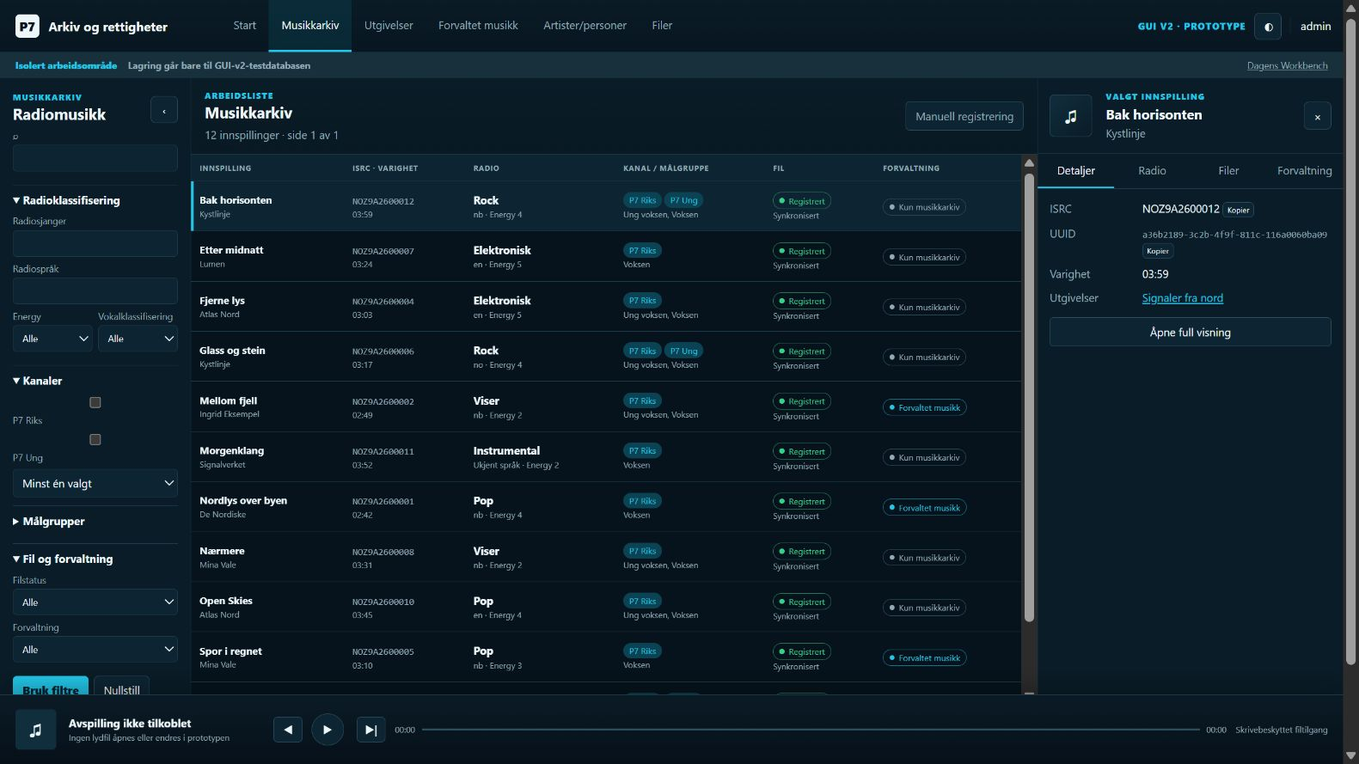
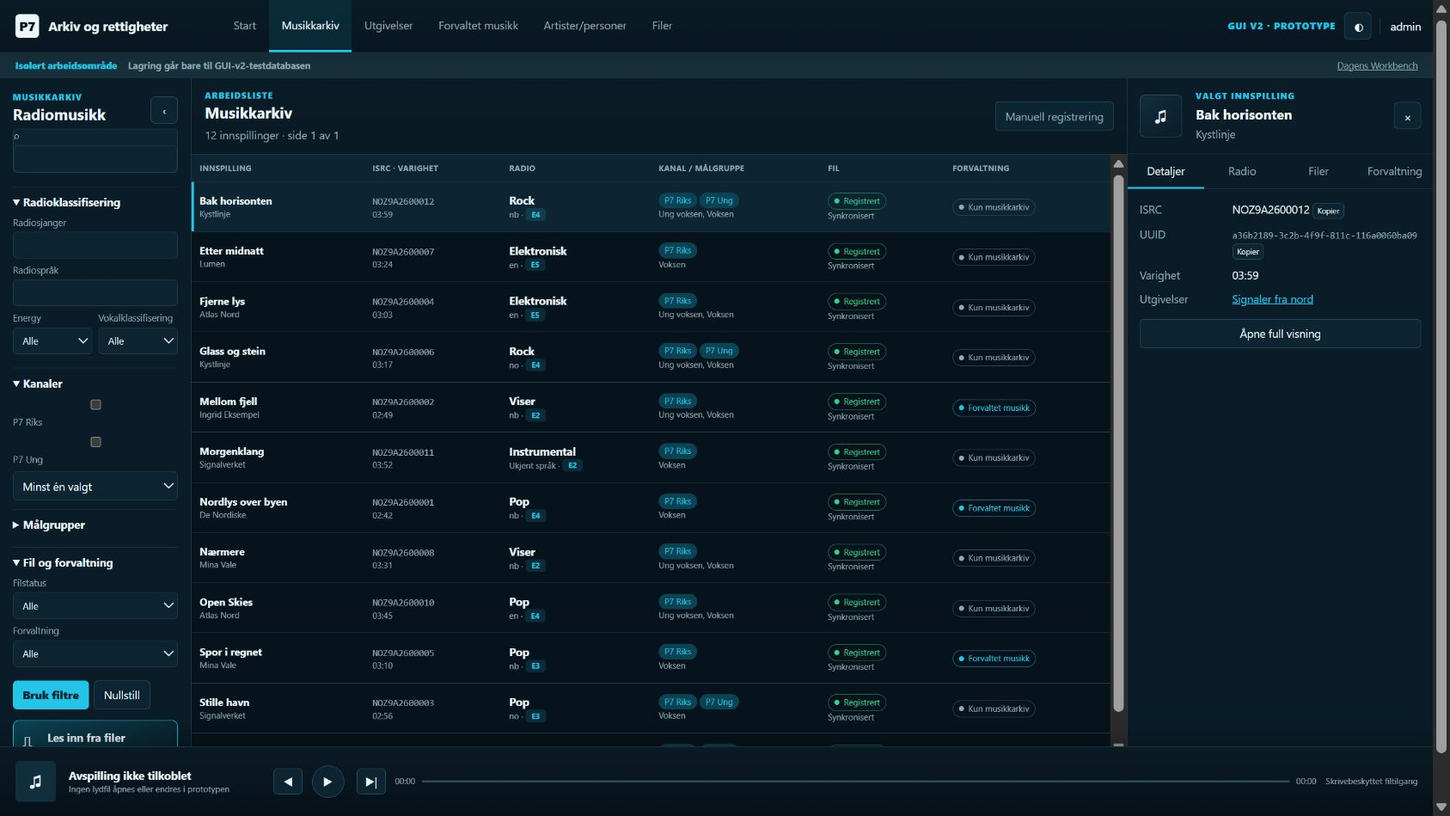
Refine GUI v2 catalogue workflows

diff --git a/gui_v2/templates/gui_v2/release_tracks.html b/gui_v2/templates/gui_v2/release_tracks.html
@@ -1,12 +1,12 @@
 {% extends "gui_v2/base.html" %}{% block title %}{{ release.title }}{% endblock %}{% block content %}
 <div class="release-layout">
   <aside class="release-nav"><a href="{% url 'gui_v2:release_list' %}">← Alle utgivelser</a><div class="release-cover">▣</div><h2>{{ release.title }}</h2><p>{{ release.label|default:"Label ukjent" }}</p><dl><dt>Format</dt><dd>{{ release.get_release_type_display|default:"Ukjent" }}</dd><dt>År</dt><dd>{{ release.release_year|default:"Ukjent" }}</dd><dt>Katalognr.</dt><dd>{{ release.catalogue_number|default:"Ikke registrert" }}</dd><dt>UUID</dt><dd><code>{{ release.pk }}</code></dd></dl><nav><a aria-current="page" href="#tracks">Sporliste</a><a href="{% url 'workbench:release' release.pk %}">Utgivelsesdetaljer</a><a href="{% url 'workbench:release' release.pk %}?tab=files">Filer og kilder</a></nav></aside>
-  <section class="track-workspace" id="tracks"><header class="release-header"><div><span class="eyebrow">Utgivelse · sporregistrering</span><h1>{{ release.title }}</h1><p>Utgivelsesspesifikke felt redigeres i tabellen. Felles metadata endres bare med et uttrykkelig valg.</p></div><span class="status {% if writes_enabled %}ok{% else %}muted{% endif %}">{% if writes_enabled %}Isolert lagring aktiv{% else %}Skrivebeskyttet prototype{% endif %}</span></header>
+  <section class="track-workspace" id="tracks"><header class="release-header"><div><span class="eyebrow">Utgivelse · sporregistrering</span><h1>{{ release.title }}</h1><p>Utgivelsesspesifikke felt redigeres i tabellen. Felles metadata endres bare med et uttrykkelig valg.</p></div><div class="heading-actions"><button class="button" type="button" data-open-inspector hidden>Vis sporinspektør</button><span class="status {% if writes_enabled %}ok{% else %}muted{% endif %}">{% if writes_enabled %}Isolert lagring aktiv{% else %}Skrivebeskyttet prototype{% endif %}</span></div></header>
   <form method="post" id="track-grid-form" data-writes="{{ writes_enabled|yesno:'true,false' }}">{% csrf_token %}<input type="hidden" name="return_query" value="{{ return_query }}">{{ formset.management_form }}
     {% if formset.non_form_errors %}<div class="form-errors" role="alert">{{ formset.non_form_errors }}</div>{% endif %}
-    <div class="track-toolbar"><button type="button" class="button" data-add-row>＋ Ny rad</button><button type="button" class="button" data-add-five>＋ Fem rader</button><button type="button" class="button" data-open-paste>Lim inn tabelltekst</button><span id="dirty-count">Ingen ulagrede endringer</span><button type="button" class="button" data-cancel-grid>Avbryt</button><button class="primary" type="submit" {% if not writes_enabled %}disabled{% endif %}>Lagre sporlisten</button></div>
+    <div class="track-toolbar"><button type="button" class="button" data-add-row>＋ Ny rad</button><button type="button" class="button" data-add-five>＋ Fem rader</button><button type="button" class="button" data-open-paste>Lim inn tabelltekst</button><span class="keyboard-hint" id="track-shortcuts"><kbd>Tab</kbd> felt · <kbd>Enter</kbd>/<kbd>Shift+Enter</kbd> neste/forrige rad · <kbd>Ctrl+piler</kbd> felt/rad · <kbd>Ctrl+Shift+N</kbd> ny rad · <kbd>Ctrl+Enter</kbd> lagre</span><span id="dirty-count">Ingen ulagrede endringer</span><button type="button" class="button" data-cancel-grid>Avbryt</button><button class="primary" type="submit" {% if not writes_enabled %}disabled{% endif %}>Lagre sporlisten</button></div>
     <div class="paste-panel" hidden><label>Lim inn tabulatorseparerte kolonner: plate, side, spor, sportittel, artist, komponist, tekstforfatter, varighet, ISRC<textarea rows="6" data-paste-area></textarea></label><button type="button" class="primary" data-apply-paste>Legg til rader</button><button type="button" class="button" data-close-paste>Lukk</button></div>
-    <div class="track-table-wrap"><table class="track-table"><thead><tr><th>#</th><th>Plate</th><th>Side</th><th>Spor</th><th>Sportittel</th><th>Innspilling</th><th>Artist</th><th>Komponist</th><th>Tekstforfatter</th><th>Varighet</th><th>ISRC</th><th>Status</th></tr></thead><tbody id="track-rows">
+    <div class="track-table-wrap"><table class="track-table" aria-describedby="track-shortcuts"><thead><tr><th>#</th><th>Plate</th><th>Side</th><th>Spor</th><th>Sportittel</th><th>Innspilling</th><th>Artist</th><th>Komponist</th><th>Tekstforfatter</th><th>Varighet</th><th>ISRC</th><th>Status</th></tr></thead><tbody id="track-rows">
     {% for form in formset %}<tr class="track-row{% if form.errors %} invalid{% endif %}" data-index="{{ forloop.counter0 }}">{{ form.track_id }}{{ form.recording_id }}
       <td>{{ form.sequence_number }}{% for error in form.sequence_number.errors %}<small class="cell-error">{{ error }}</small>{% endfor %}</td><td>{{ form.disc_number }}</td><td>{{ form.side }}</td><td>{{ form.track_number }}</td><td>{{ form.title_override }}</td><td><div class="recording-cell">{{ form.recording_title }}<button type="button" class="mini" data-search-recording>Finn</button><div class="search-results" hidden></div></div>{% for error in form.recording_title.errors %}<small class="cell-error">{{ error }}</small>{% endfor %}{% if form.duplicate_candidates %}<div class="candidate-list"><strong>Mulige dubletter</strong>{% for match in form.duplicate_candidates %}<button type="button" data-use-recording="{{ match.recording.pk }}" data-title="{{ match.recording.title }}">Bruk {{ match.recording.title }} · {{ match.signals|join:", " }}</button>{% endfor %}{{ form.force_create }} {{ form.force_create.label_tag }}</div>{% endif %}</td>
       <td>{{ form.artists }}</td><td>{{ form.composers }}</td><td>{{ form.lyricists }}</td><td>{{ form.duration }}{% for error in form.duration.errors %}<small class="cell-error">{{ error }}</small>{% endfor %}</td><td>{{ form.isrc }}{% for error in form.isrc.errors %}<small class="cell-error">{{ error }}</small>{% endfor %}</td><td><label class="compact-check">{{ form.update_shared_recording }} Oppdater felles</label><label class="compact-check danger">{{ form.remove }} Fjern</label>{% if form.errors %}<span class="status error">Må rettes</span>{% else %}<span class="status muted row-state">Lagret</span>{% endif %}</td>
@@ -14,5 +14,5 @@
   </form>
   <template id="empty-track-row"><tr class="track-row new" data-index="__prefix__">{{ formset.empty_form.track_id }}{{ formset.empty_form.recording_id }}<td>{{ formset.empty_form.sequence_number }}</td><td>{{ formset.empty_form.disc_number }}</td><td>{{ formset.empty_form.side }}</td><td>{{ formset.empty_form.track_number }}</td><td>{{ formset.empty_form.title_override }}</td><td><div class="recording-cell">{{ formset.empty_form.recording_title }}<button type="button" class="mini" data-search-recording>Finn</button><div class="search-results" hidden></div></div><label class="compact-check">{{ formset.empty_form.force_create }} Opprett ny likevel</label></td><td>{{ formset.empty_form.artists }}</td><td>{{ formset.empty_form.composers }}</td><td>{{ formset.empty_form.lyricists }}</td><td>{{ formset.empty_form.duration }}</td><td>{{ formset.empty_form.isrc }}</td><td><label class="compact-check">{{ formset.empty_form.update_shared_recording }} Oppdater felles</label><label class="compact-check danger">{{ formset.empty_form.remove }} Fjern</label><span class="status cyan row-state">Ny</span></td></tr></template>
   </section>
-  <aside class="inspector release-inspector" id="v2-inspector"><button class="resize-handle" type="button" aria-label="Endre bredden på detaljpanelet"></button><header><div><span class="eyebrow">Sporinspektør</span><h2>{% if selected_track %}{{ selected_track.display_title }}{% else %}Velg et spor{% endif %}</h2><p>{% if selected_track %}Innspilling {{ selected_track.recording.pk }}{% endif %}</p></div><button type="button" class="icon-button" data-close-inspector>×</button></header>{% if selected_track %}<dl class="detail-grid"><dt>Felles tittel</dt><dd>{{ selected_track.recording.title }}</dd><dt>Release-spor</dt><dd>{{ selected_track.side }}{{ selected_track.track_number|default:selected_track.sequence_number }}</dd><dt>Brukt på</dt><dd>{{ selected_track.recording.release_tracks.count }} utgivelse(r)</dd><dt>Filer</dt><dd>{{ selected_track.file_assets.count }} knyttet til dette sporet</dd></dl><p class="notice">Endring av felles metadata kan påvirke flere utgivelser. Velg «Oppdater felles» på raden for å gjøre dette uttrykkelig.</p><a class="button full" href="{% url 'workbench:recording' selected_track.recording.pk %}">Åpne innspillingen</a>{% endif %}</aside>
+  <aside class="inspector release-inspector" id="v2-inspector"><button class="resize-handle" type="button" aria-label="Endre bredden på detaljpanelet" title="Dra eller bruk piltastene"></button><header><div><span class="eyebrow">Valgt spor</span><h2 id="inspector-track-title">{% if selected_track %}{{ selected_track.display_title }}{% else %}Velg et spor{% endif %}</h2><p id="inspector-recording-id">Felles innspilling</p></div><button type="button" class="icon-button" data-close-inspector aria-label="Lukk sporinspektøren">×</button></header>{% if selected_track %}<dl class="detail-grid"><dt>Innspilling</dt><dd id="inspector-common-title">{{ selected_track.recording.title }}</dd><dt>Posisjon</dt><dd id="inspector-position">{{ selected_track.side }}{{ selected_track.track_number|default:selected_track.sequence_number }}</dd><dt>Artist</dt><dd id="inspector-artist">{{ selected_track_data.artists|default:"Uavklart" }}</dd><dt>ISRC</dt><dd id="inspector-isrc">{{ selected_track_data.isrc|default:"Ikke registrert" }}</dd><dt>Andre utgivelser</dt><dd>{{ selected_track.recording.release_tracks.count }} registrering(er)</dd><dt>Tilknyttede filer</dt><dd>{{ selected_track.file_assets.count }}</dd></dl><p class="notice">Felles metadata kan brukes på flere utgivelser. Kryss av «Oppdater felles» før slike endringer lagres.</p><a class="button full" href="{% url 'workbench:recording' selected_track.recording.pk %}">Åpne full innspilling</a>{% endif %}</aside>
 </div>{% endblock %}

diff --git a/gui_v2/static/gui_v2/prototype.css b/gui_v2/static/gui_v2/prototype.css
@@ -10,3 +10,12 @@
 .release-layout{display:grid;grid-template-columns:210px minmax(800px,1fr) var(--inspector);min-height:calc(100vh - var(--head) - var(--strip) - var(--player))}.release-nav{padding:16px}.release-nav>a{color:var(--accent)}.release-cover{display:grid;place-items:center;width:112px;height:112px;margin:20px auto 12px;border:1px solid var(--line2);border-radius:7px;background:linear-gradient(145deg,var(--surface3),var(--bg));font-size:36px}.release-nav dl{display:grid;grid-template-columns:70px 1fr;gap:6px;margin:16px 0}.release-nav dt{color:var(--muted)}.release-nav dd{margin:0}.release-nav nav{display:grid;border-top:1px solid var(--line);padding-top:10px}.release-nav nav a{padding:7px;text-decoration:none;color:var(--muted)}.release-nav nav a[aria-current=page]{background:var(--accent-soft);color:var(--accent);border-left:2px solid var(--accent)}.track-toolbar{display:flex;align-items:center;gap:6px;padding:8px 10px;border-bottom:1px solid var(--line);background:var(--surface)}.track-toolbar #dirty-count{margin-left:auto;color:var(--muted)}.paste-panel{padding:10px;border-bottom:1px solid var(--line);background:var(--surface2)}.paste-panel label{display:grid;gap:5px;color:var(--muted)}.paste-panel textarea{width:100%;background:var(--bg);color:var(--text);border:1px solid var(--line2);border-radius:5px;padding:7px;font-family:ui-monospace,monospace}.track-table-wrap{max-height:calc(100vh - var(--head) - var(--strip) - var(--player) - 130px)}.track-table{min-width:1500px}.track-table th,.track-table td{padding:5px}.track-table td{height:auto}.track-table input[type=text],.track-table input[type=number]{width:100%;min-width:52px;border:1px solid transparent;border-radius:3px;background:transparent;color:var(--text);padding:6px}.track-table input:focus{border-color:var(--accent);background:var(--surface3)}.track-table td:nth-child(5),.track-table td:nth-child(6){min-width:180px}.track-table td:nth-child(7),.track-table td:nth-child(8),.track-table td:nth-child(9){min-width:140px}.track-row.dirty{background:color-mix(in srgb,var(--warn) 8%,transparent);box-shadow:inset 3px 0 var(--warn)}.track-row.invalid{background:color-mix(in srgb,var(--danger) 8%,transparent)}.recording-cell{display:grid;grid-template-columns:1fr auto;gap:3px;position:relative}.mini{padding:4px;font-size:10px}.search-results{position:absolute;top:100%;left:0;right:0;z-index:8;padding:5px;background:var(--surface);border:1px solid var(--line2);box-shadow:var(--shadow)}.search-results button,.candidate-list button{display:block;width:100%;text-align:left;border:0;background:transparent;color:var(--text);padding:5px}.candidate-list{padding:5px;background:var(--surface3);font-size:10px}.compact-check{display:flex;align-items:center;gap:3px;color:var(--muted);font-size:9px;white-space:nowrap}.compact-check.danger{color:var(--danger)}.cell-error{display:block;color:var(--danger);max-width:180px}.form-errors{padding:9px 14px;background:#4b1f26;color:#ffd8da}.release-inspector>header{grid-template-columns:1fr 32px}.player{position:fixed;left:0;right:0;bottom:0;z-index:30;height:var(--player);display:grid;grid-template-columns:52px 230px 34px 42px 34px minmax(200px,1fr) auto;gap:11px;align-items:center;padding:10px 18px;background:linear-gradient(180deg,#0b1b26,#061019);border-top:1px solid var(--line);box-shadow:0 -10px 25px #0004}.player-cover{display:grid;place-items:center;width:48px;height:48px;border-radius:5px;background:var(--surface3);font-size:20px}.player-title{display:grid}.player-title span{color:var(--muted);font-size:10px}.player button{padding:5px}.player .play{border-radius:50%;width:38px;height:38px}.player-progress{display:grid;grid-template-columns:auto 1fr auto;align-items:center;gap:8px;color:var(--muted);font-size:10px}.player-progress div{height:3px;background:var(--line2)}.player-safe{color:var(--muted);font-size:10px}
 @media(max-width:1200px){.app-header{grid-template-columns:220px 1fr}.header-actions .user-chip{display:none}.archive-layout{grid-template-columns:200px minmax(520px,1fr) 320px}.release-layout{grid-template-columns:185px minmax(720px,1fr)}.release-layout>.inspector{display:none}.player{grid-template-columns:45px 180px 30px 38px 30px 1fr}.player-safe{display:none}}
 @media(max-width:850px){.app-header{height:auto;grid-template-columns:1fr auto}.main-nav{grid-column:1/-1;order:3;height:42px}.brand{height:50px}.prototype-mark{display:none}.archive-layout,.archive-layout.no-inspector,.release-layout{display:block}.filter-panel,.release-nav{border-right:0;border-bottom:1px solid var(--line)}.filter-panel{max-height:42vh;overflow:auto}.inspector{position:fixed;z-index:25;top:var(--head);right:0;bottom:var(--player);width:min(92vw,var(--inspector));max-height:none;box-shadow:var(--shadow)}.player{grid-template-columns:42px 1fr 32px 38px 32px}.player-progress{display:none}.start-grid{grid-template-columns:1fr}.inline-search{width:100%}.list-heading{align-items:flex-start;gap:8px}.archive-list .table-scroll{max-height:none}.release-nav{display:grid;grid-template-columns:auto 1fr;gap:8px}.release-cover,.release-nav dl,.release-nav nav{display:none}}
+
+/* Visual refinement pass: interaction states and usable collapsible work areas. */
+.app-header{box-shadow:0 8px 24px #0002}.main-nav a{transition:background .15s,color .15s}main{background-image:radial-gradient(circle at 75% 0,color-mix(in srgb,var(--accent) 5%,transparent),transparent 38%)}
+.archive-layout,.release-layout{transition:grid-template-columns .18s}.archive-layout.inspector-closed{grid-template-columns:225px 1fr}.release-layout.inspector-closed{grid-template-columns:210px minmax(800px,1fr)}.archive-layout.filters-closed{grid-template-columns:50px minmax(600px,1fr) var(--inspector)}.archive-layout.filters-closed.inspector-closed{grid-template-columns:50px 1fr}.archive-layout.filters-closed .filter-panel{padding:15px 8px}.archive-layout.filters-closed .filter-panel .panel-heading>div,.archive-layout.filters-closed .filter-form,.archive-layout.filters-closed .ingest-link{display:none}
+.search-field{border:1px solid var(--line);border-radius:5px;background:var(--surface2)}.search-field:focus-within{border-color:var(--accent)}.ingest-link{background:linear-gradient(135deg,var(--accent-soft),transparent)}.heading-actions{display:flex;align-items:center;gap:7px}.energy{display:inline-grid;place-items:center;min-width:24px;padding:1px 5px;border-radius:4px;background:color-mix(in srgb,var(--accent) 14%,transparent);color:var(--accent);font-size:9px}
+.data-table tr,.track-row{transition:background .12s,box-shadow .12s}.track-row:hover,.track-row.active{background:var(--surface2);box-shadow:inset 3px 0 var(--accent)}
+.keyboard-hint{order:2;flex-basis:100%;padding-top:2px;color:var(--muted);font-size:9px;white-space:nowrap}.keyboard-hint kbd{display:inline-block;min-width:20px;padding:1px 4px;border:1px solid var(--line2);border-bottom-width:2px;border-radius:3px;background:var(--surface2);color:var(--text);font:9px ui-monospace,monospace;text-align:center}.track-toolbar{position:sticky;top:0;z-index:4;flex-wrap:wrap;box-shadow:0 4px 12px #0002}.track-table th:first-child,.track-table td:first-child{position:sticky;left:0;z-index:3;background:var(--surface);box-shadow:1px 0 var(--line)}.track-table th:first-child{z-index:5;background:var(--surface2)}.resize-handle:focus-visible{background:var(--accent)}
+@media(max-width:850px){.keyboard-hint{display:none}}
+@media(max-width:850px){.archive-layout.filters-closed{display:grid;grid-template-columns:50px 1fr}.archive-layout.filters-closed .inspector{grid-column:1/-1}.release-layout.inspector-closed{display:block}}

diff --git a/gui_v2/static/gui_v2/prototype.js b/gui_v2/static/gui_v2/prototype.js
@@ -14,13 +14,29 @@
   }));
 
   const inspector = document.querySelector("#v2-inspector");
+  const layout = inspector?.parentElement;
+  const inspectorOpeners = document.querySelectorAll("[data-open-inspector]");
+  const setInspector = open => {
+    if (!inspector) return;
+    inspector.hidden = !open;
+    layout?.classList.toggle("inspector-closed", !open);
+    inspectorOpeners.forEach(button => { button.hidden = open; });
+  };
   document.querySelector("[data-close-inspector]")?.addEventListener("click", () => {
-    inspector.hidden = true; sessionStorage.setItem("p7-v2-inspector", "closed");
+    setInspector(false);
   });
+  inspectorOpeners.forEach(button => button.addEventListener("click", () => setInspector(true)));
   document.querySelectorAll("[data-tab]").forEach(button => button.addEventListener("click", () => {
     document.querySelectorAll("[data-tab]").forEach(item => item.setAttribute("aria-selected", String(item === button)));
     document.querySelectorAll("[data-panel]").forEach(panel => { panel.hidden = panel.dataset.panel !== button.dataset.tab; });
   }));
+  document.querySelector(".tabs")?.addEventListener("keydown", event => {
+    if (!["ArrowLeft", "ArrowRight"].includes(event.key)) return;
+    const tabs = [...event.currentTarget.querySelectorAll("[data-tab]")];
+    const current = tabs.indexOf(document.activeElement);
+    const next = (current + (event.key === "ArrowRight" ? 1 : -1) + tabs.length) % tabs.length;
+    event.preventDefault(); tabs[next].focus(); tabs[next].click();
+  });
   const handle = inspector?.querySelector(".resize-handle");
   handle?.addEventListener("pointerdown", event => {
     event.preventDefault(); handle.setPointerCapture(event.pointerId);
@@ -31,8 +47,24 @@
     handle.addEventListener("pointermove", move);
     handle.addEventListener("pointerup", () => handle.removeEventListener("pointermove", move), {once:true});
   });
+  handle?.addEventListener("keydown", event => {
+    if (!["ArrowLeft", "ArrowRight"].includes(event.key)) return;
+    const current = parseInt(getComputedStyle(root).getPropertyValue("--inspector"), 10) || 360;
+    const width = Math.max(300, Math.min(560, current + (event.key === "ArrowLeft" ? 16 : -16)));
+    root.style.setProperty("--inspector", `${width}px`);
+    localStorage.setItem("p7-v2-inspector-width", width);
+    event.preventDefault();
+  });
   const storedWidth = localStorage.getItem("p7-v2-inspector-width");
   if (storedWidth) root.style.setProperty("--inspector", `${storedWidth}px`);
+
+  const filterToggle = document.querySelector("[data-collapse='filters']");
+  filterToggle?.addEventListener("click", () => {
+    const page = filterToggle.closest(".archive-layout");
+    const closed = page.classList.toggle("filters-closed");
+    filterToggle.textContent = closed ? "›" : "‹";
+    filterToggle.setAttribute("aria-label", closed ? "Vis filtre" : "Skjul filtre");
+  });
 
   const scrollKey = `p7-v2-scroll:${location.pathname}${location.search.replace(/([?&])selected=[^&]*/, "$1")}`;
   const scroller = document.querySelector(".table-scroll");
@@ -54,6 +86,21 @@
   };
   body.addEventListener("input", event => markDirty(event.target.closest("tr")));
   body.addEventListener("change", event => markDirty(event.target.closest("tr")));
+  const updateTrackInspector = row => {
+    if (!row) return;
+    const index = row.dataset.index;
+    const value = name => row.querySelector(`[name='tracks-${index}-${name}']`)?.value || "";
+    document.querySelectorAll(".track-row.active").forEach(item => item.classList.remove("active"));
+    row.classList.add("active");
+    const releaseTitle = value("title_override"), recordingTitle = value("recording_title");
+    document.querySelector("#inspector-track-title")?.replaceChildren(releaseTitle || recordingTitle || "Nytt spor");
+    document.querySelector("#inspector-common-title")?.replaceChildren(recordingTitle || "Ikke valgt");
+    document.querySelector("#inspector-position")?.replaceChildren(`${value("disc_number") ? `Plate ${value("disc_number")} · ` : ""}${value("side")}${value("track_number") || value("sequence_number")}`);
+    document.querySelector("#inspector-artist")?.replaceChildren(value("artists") || "Uavklart");
+    document.querySelector("#inspector-isrc")?.replaceChildren(value("isrc") || "Ikke registrert");
+  };
+  body.addEventListener("focusin", event => updateTrackInspector(event.target.closest("tr")));
+  body.addEventListener("click", event => updateTrackInspector(event.target.closest("tr")));
 
   function addRow(values = []) {
     const index = Number(total.value); const fragment = template.content.cloneNode(true);
@@ -81,9 +128,32 @@
     form.dataset.submitting="true"; form.querySelector("button[type=submit]").disabled=true;
   });
   body.addEventListener("keydown", event => {
-    if (event.key !== "Enter" || event.target.tagName !== "INPUT") return;
-    event.preventDefault(); const row = event.target.closest("tr"); const inputs = [...row.querySelectorAll("input:not([type=hidden]):not([type=checkbox])")];
-    const column = inputs.indexOf(event.target); const next = row.nextElementSibling || addRow(); const nextInputs=[...next.querySelectorAll("input:not([type=hidden]):not([type=checkbox])")]; nextInputs[column]?.focus();
+    if (event.target.tagName !== "INPUT") return;
+    const row = event.target.closest("tr");
+    const inputs = [...row.querySelectorAll("input:not([type=hidden]):not([type=checkbox])")];
+    const column = inputs.indexOf(event.target);
+    if (event.ctrlKey && event.key === "Enter") {
+      event.preventDefault(); form.requestSubmit(); return;
+    }
+    if (event.ctrlKey && ["ArrowLeft", "ArrowRight"].includes(event.key)) {
+      event.preventDefault(); inputs[column + (event.key === "ArrowRight" ? 1 : -1)]?.focus(); return;
+    }
+    if ((event.ctrlKey && ["ArrowUp", "ArrowDown"].includes(event.key)) || event.key === "Enter") {
+      event.preventDefault();
+      let targetRow;
+      if (event.key === "ArrowUp" || (event.key === "Enter" && event.shiftKey)) targetRow = row.previousElementSibling;
+      else targetRow = row.nextElementSibling || addRow();
+      const targetInputs = targetRow ? [...targetRow.querySelectorAll("input:not([type=hidden]):not([type=checkbox])")] : [];
+      targetInputs[column]?.focus();
+    }
+  });
+  document.addEventListener("keydown", event => {
+    if (event.ctrlKey && event.shiftKey && event.key.toLowerCase() === "n") {
+      event.preventDefault(); addRow().querySelector("input:not([type=hidden])")?.focus(); return;
+    }
+    if (event.key !== "Escape") return;
+    document.querySelectorAll(".search-results").forEach(result => { result.hidden = true; });
+    if (pastePanel && !pastePanel.hidden) pastePanel.hidden = true;
   });
   body.addEventListener("click", async event => {
     const existing = event.target.closest("[data-use-recording]");

diff --git a/gui_v2/templates/gui_v2/music_library.html b/gui_v2/templates/gui_v2/music_library.html
@@ -14,12 +14,12 @@
   </aside>
 
   <section class="archive-list">
-    <header class="list-heading"><div><span class="eyebrow">Arbeidsliste</span><h2>Musikkarkiv</h2><p>{{ page.paginator.count }} innspillinger · side {{ page.number }} av {{ page.paginator.num_pages }}</p></div><a class="button subtle" href="{% url 'workbench:library_add' %}">Manuell registrering</a></header>
+    <header class="list-heading"><div><span class="eyebrow">Arbeidsliste</span><h2>Musikkarkiv</h2><p>{{ page.paginator.count }} innspillinger · side {{ page.number }} av {{ page.paginator.num_pages }}</p></div><div class="heading-actions"><button class="button" type="button" data-open-inspector hidden>Vis detaljer</button><a class="button subtle" href="{% url 'workbench:library_add' %}">Manuell registrering</a></div></header>
     <div class="table-scroll"><table class="data-table"><thead><tr><th>Innspilling</th><th>ISRC · varighet</th><th>Radio</th><th>Kanal / målgruppe</th><th>Fil</th><th>Forvaltning</th></tr></thead><tbody>
     {% for entry in page.object_list %}<tr class="selectable{% if selected.pk == entry.pk %} selected{% endif %}">
       <td><a class="row-link" href="?{% if query_without_selected %}{{ query_without_selected }}&amp;{% endif %}selected={{ entry.pk }}"><strong>{{ entry.recording.title }}</strong><span>{{ entry.artist_text }}</span></a></td>
       <td><code>{{ entry.isrc|default:"ISRC ukjent" }}</code><span>{{ entry.duration_text|default:"Varighet ukjent" }}</span></td>
-      <td><strong>{{ entry.genre|default:"Ikke klassifisert" }}</strong><span>{{ entry.language|default:"Ukjent språk" }} · Energy {{ entry.energy|default:"–" }}</span></td>
+      <td><strong>{{ entry.genre|default:"Ikke klassifisert" }}</strong><span>{{ entry.language|default:"Ukjent språk" }} · <b class="energy">E{{ entry.energy|default:"–" }}</b></span></td>
       <td><div class="tag-row">{% for channel in entry.channels.all %}<span class="tag">{{ channel.name }}</span>{% empty %}<span>Ingen kanal</span>{% endfor %}</div><span>{% for target in entry.target_audiences.all %}{{ target.name }}{% if not forloop.last %}, {% endif %}{% empty %}Ingen målgruppe{% endfor %}</span></td>
       <td>{% if entry.radio_files %}<span class="status ok">Registrert</span><span>{{ entry.radio_files.0.get_sync_status_display }}</span>{% else %}<span class="status muted">Ingen radiofil</span>{% endif %}</td>
       <td>{% if entry.is_managed %}<span class="status cyan">Forvaltet musikk</span>{% else %}<span class="status muted">Kun musikkarkiv</span>{% endif %}</td>
@@ -28,7 +28,7 @@
     {% if page.paginator.num_pages > 1 %}<nav class="pagination" aria-label="Sider">{% if page.has_previous %}<a href="?{% if query_without_page %}{{ query_without_page }}&amp;{% endif %}page={{ page.previous_page_number }}">← Forrige</a>{% endif %}<span>Side {{ page.number }} av {{ page.paginator.num_pages }}</span>{% if page.has_next %}<a href="?{% if query_without_page %}{{ query_without_page }}&amp;{% endif %}page={{ page.next_page_number }}">Neste →</a>{% endif %}</nav>{% endif %}
   </section>
 
-  {% if selected %}<aside class="inspector" id="v2-inspector"><button class="resize-handle" type="button" aria-label="Endre bredden på detaljpanelet"></button>
+  {% if selected %}<aside class="inspector" id="v2-inspector"><button class="resize-handle" type="button" aria-label="Endre bredden på detaljpanelet" title="Dra eller bruk piltastene"></button>
     <header><div class="cover">♫</div><div><span class="eyebrow">Valgt innspilling</span><h2>{{ selected.recording.title }}</h2><p>{{ selected.artist_text }}</p></div><button type="button" class="icon-button" data-close-inspector aria-label="Lukk detaljpanelet">×</button></header>
     <div class="tabs" role="tablist"><button role="tab" aria-selected="true" data-tab="overview">Detaljer</button><button role="tab" data-tab="radio">Radio</button><button role="tab" data-tab="files">Filer</button><button role="tab" data-tab="rights">Forvaltning</button></div>
     <section data-panel="overview"><dl class="detail-grid"><dt>ISRC</dt><dd>{{ selected.isrc|default:"Ikke registrert" }} <button class="copy" data-copy="{{ selected.isrc }}" type="button">Kopier</button></dd><dt>UUID</dt><dd><code>{{ selected.recording.pk }}</code> <button class="copy" data-copy="{{ selected.recording.pk }}" type="button">Kopier</button></dd><dt>Varighet</dt><dd>{{ selected.duration_text|default:"Ukjent" }}</dd><dt>Utgivelser</dt><dd>{% for release in selected.releases %}<a href="{% url 'gui_v2:release_detail' release.pk %}">{{ release.title }}</a>{% empty %}Ingen registrerte utgivelser{% endfor %}</dd></dl><a class="button full" href="{% url 'workbench:recording' selected.recording.pk %}">Åpne full visning</a></section>

diff --git a/gui_v2/views.py b/gui_v2/views.py
@@ -203,12 +203,14 @@ def release_detail(request, release_id):
                 return redirect(f"{target}?{query}" if query else target)
     selected_track_id = request.GET.get("track")
     selected_track = next((item for item in tracks if str(item.pk) == selected_track_id), tracks[0] if tracks else None)
+    selected_track_data = _track_initial(selected_track) if selected_track else None
     return render(
         request,
         "gui_v2/release_tracks.html",
         {
             "section": "releases", "release": release, "tracks": tracks, "formset": formset,
-            "selected_track": selected_track, "writes_enabled": settings.GUI_V2_WRITES_ENABLED,
+            "selected_track": selected_track, "selected_track_data": selected_track_data,
+            "writes_enabled": settings.GUI_V2_WRITES_ENABLED,
             "return_query": request.GET.urlencode(),
         },
     )

diff --git a/gui_v2/forms.py b/gui_v2/forms.py
@@ -99,6 +99,9 @@ class TrackRowForm(forms.Form):
         self.release = release
         self.duplicate_candidates = ()
         super().__init__(*args, **kwargs)
+        for name, field in self.fields.items():
+            if not isinstance(field.widget, forms.HiddenInput):
+                field.widget.attrs.setdefault("aria-label", field.label)
 
     def clean_recording_id(self):
         value = self.cleaned_data.get("recording_id")

diff --git a/GUI_V2_IMPLEMENTATION.md b/GUI_V2_IMPLEMENTATION.md
@@ -20,6 +20,13 @@ cellefeil, ulagret-status og dobbeltsendingsvern. Hele sporlisten lagres i én
 transaksjon. ReleaseTrack-felt og felles Recording-metadata holdes atskilt;
 felles metadata krever `Oppdater felles`.
 
+Sportabellen er keyboard-first: `Tab` går mellom felt, `Enter` og
+`Shift+Enter` går til samme kolonne på neste eller forrige rad, `Ctrl` +
+piltaster beveger seg i rutenettet, `Ctrl+Shift+N` oppretter en rad og
+`Ctrl+Enter` lagrer. Snarveiene vises i arbeidsflaten. Aktiv rad oppdaterer
+sporinspektøren, og detaljpanelene kan lukkes, åpnes og breddejusteres med mus
+eller tastatur.
+
 Avspillingsfeltet er synlig, men deaktivert fordi prosjektet ikke har en trygg
 avspillingsbackend. Det står derfor eksplisitt `Avspilling ikke tilkoblet`.
 
@@ -45,7 +52,8 @@ filer i testdataene er kun databaseposter.
 - faktisk nettleserprøve: innlogging, søk + kanalfilter, valg/detaljpanel,
   overgang til utgivelse, TSV-innliming, ugyldig varighet, bevart rad,
   korrigering og atomisk lagring. Mørkt og lyst tema, smalere bredde,
-  paneltabber/lukking og konsolllogg ble kontrollert.
+  paneltabber/lukking, breddejustering og tastaturnavigasjon i sporgrid ble
+  kontrollert.
 - original FLAC-mappe: manifest før/etter var identisk.
 - isolert GUI-v2-filrot: 0 filer etter lagringsprøven.
 
